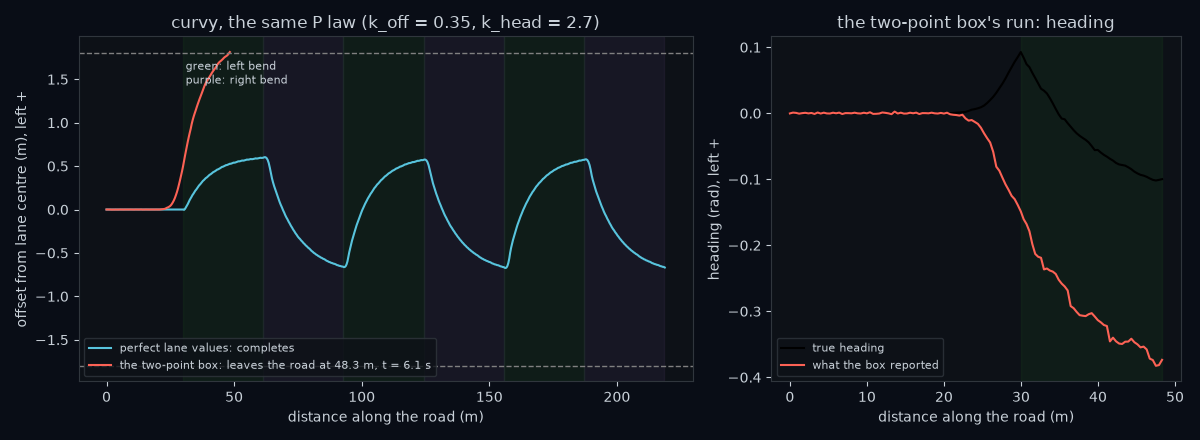
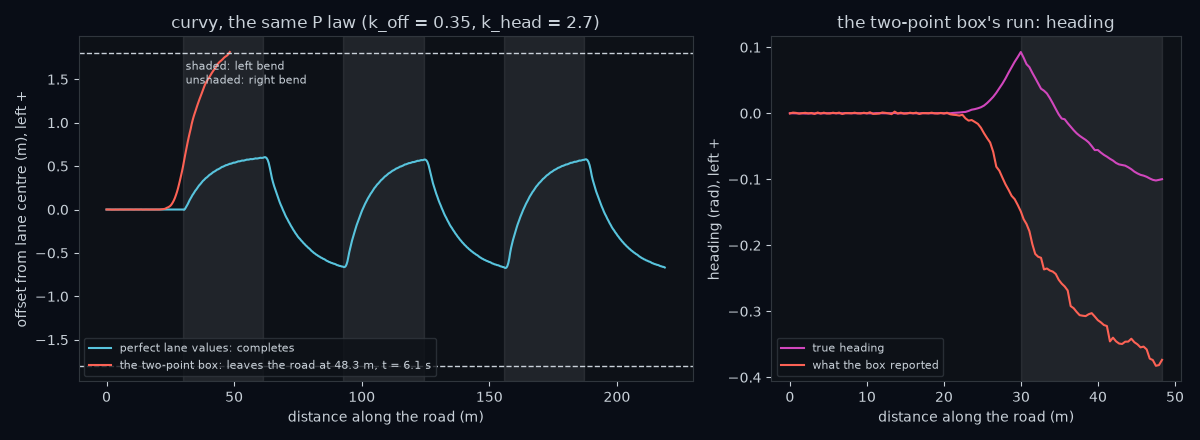
feat(figures): palette colours in 0.1.3 and 0.1.4; G2 gate on every figures.py
Every course/*/figures.py and scripts/figstyle.py now passes
test_no_figure_module_holds_a_string_colour_literal. 0.1.3 draws paint in the
camera's colours and lanes/rays in the quantity hues; 0.1.4 tells gains apart by
shades of one hue and bends by shading instead of green/purple. Figures and
course/dist/figures regenerated.

diff --git a/course/0.1.3-your-first-perception-box/figures.py b/course/0.1.3-your-first-perception-box/figures.py
@@ -4,8 +4,9 @@ from matplotlib.figure import Figure
 
 from zero2fsd.car import Observation
 from zero2fsd.car.provided import FAR_ROWS, NEAR_ROWS, estimate_lane, lane_point, paint_masks
+from zero2fsd.palette import CHROME, QUANTITY, SCENE
 from zero2fsd.sim import BicycleState, Camera, make_scenario
-from zero2fsd.sim.camera import PALETTE, ROAD, WHITE, YELLOW, to_vehicle
+from zero2fsd.sim.camera import WHITE, YELLOW, to_vehicle
 from zero2fsd.sim.scenarios import TARGET_SPEED
 from zero2fsd.sim.world import EGO_LANE_CENTER, WHITE_LINE_LATERAL
 
@@ -15,7 +16,7 @@ RAY_ROWS = (95, 116, 125, 150, 179)  # the band edges, plus the lecture's worked
 WORKED = ("straight", 20.0, 0.4, 0.05)  # scenario, s, offset, heading: the lab renders this same frame
 BENDS = (("gentle", 150.0), ("curvy", 40.0))  # centred and aligned, well inside a bend
 BANDS = ((NEAR_ROWS, "near band"), (FAR_ROWS, "far band"))
-GREY = PALETTE[ROAD] / 255
+PAINT = {YELLOW: SCENE["yellow"], WHITE: SCENE["white"]}  # paint drawn in the colours the camera sees
 
 
 def _view(scenario, s, offset=0.0, heading=0.0):
@@ -31,8 +32,8 @@ def _road_line(ax, road, state, s, lateral, ahead, **style):
 
 
 def _top_down(ax, title):
-    ax.set_facecolor(GREY)
-    ax.plot(0, 0, marker="^", ms=12, color="tab:red", zorder=5)
+    ax.set_facecolor(SCENE["road"])
+    ax.plot(0, 0, marker="^", ms=12, color=QUANTITY["perception"], zorder=5)
     ax.invert_xaxis()  # left is positive, so it goes on the left, as in the camera frame
     ax.set_xlabel("left of the car (m)")
     ax.set_ylabel("ahead of the car (m)")
@@ -43,16 +44,16 @@ def rows_to_distance(path):
     fig = Figure(figsize=(12, 4))
     side, curve = fig.subplots(1, 2, gridspec_kw={"width_ratios": [1.3, 1]})
     h = CAMERA.mount_height
-    side.axhline(0, color="black", lw=1)
-    side.plot([0, 13], [h, h], ls="--", color="tab:blue")
-    side.text(12.9, h + 0.05, f"row {HORIZON:.1f}: the horizon, parallel to the ground", ha="right", va="bottom", color="tab:blue")
+    side.axhline(0, color=CHROME["text"], lw=1)
+    side.plot([0, 13], [h, h], ls="--", color=QUANTITY["e_off"])
+    side.text(12.9, h + 0.05, f"row {HORIZON:.1f}: the horizon, parallel to the ground", ha="right", va="bottom", color=QUANTITY["e_off"])
     for k, v in enumerate(sorted(RAY_ROWS, reverse=True)):  # nearest first, labels on alternating levels
         d = CAMERA.pixel_to_ground(CAMERA.cx, v)[0]
         bold = v == 150
-        side.plot([0, d], [h, 0], color="tab:red" if bold else "grey", lw=2 if bold else 1)
+        side.plot([0, d], [h, 0], color=QUANTITY["perception"] if bold else CHROME["text"], lw=2 if bold else 1)
         side.text(d, -0.07 - 0.3 * (k % 2), f"row {v}\n{d:.2f} m", ha="center", va="top", fontsize=8,
-                  color="tab:red" if bold else "black")
-    side.plot(0, h, marker="s", ms=9, color="black")
+                  color=QUANTITY["perception"] if bold else CHROME["text"])
+    side.plot(0, h, marker="s", ms=9, color=CHROME["text"])
     side.annotate("", xy=(-0.3, 0), xytext=(-0.3, h), arrowprops={"arrowstyle": "<->"})
     side.text(-0.4, h / 2, f"h = {h} m", ha="right", va="center")
     side.set_xlim(-1.6, 13)
@@ -62,13 +63,13 @@ def rows_to_distance(path):
     side.set_title("side view: one ray per image row (vertical scale stretched)")
 
     rows = np.arange(76, 180)
-    curve.semilogy(rows, CAMERA.pixel_to_ground(CAMERA.cx, rows)[0], color="black")
-    curve.axvline(HORIZON, ls="--", color="tab:blue")
-    curve.text(HORIZON + 1, 300, "horizon", color="tab:blue")
+    curve.semilogy(rows, CAMERA.pixel_to_ground(CAMERA.cx, rows)[0], color=CHROME["text"])
+    curve.axvline(HORIZON, ls="--", color=QUANTITY["e_off"])
+    curve.text(HORIZON + 1, 300, "horizon", color=QUANTITY["e_off"])
     for (a, b), name in BANDS:
-        curve.axvspan(a, b, alpha=0.15, color="tab:orange")
+        curve.axvspan(a, b, alpha=0.25, color=QUANTITY["psi"])
         curve.text((a + b) / 2, 150, name, ha="center", fontsize=9)
-    curve.plot(150, CAMERA.pixel_to_ground(CAMERA.cx, 150)[0], "o", color="tab:red")
+    curve.plot(150, CAMERA.pixel_to_ground(CAMERA.cx, 150)[0], "o", color=QUANTITY["perception"])
     curve.set_xlabel("image row v (0 is the top)")
     curve.set_ylabel("distance ahead (m), log scale")
     curve.set_title("distance ahead for every row below the horizon")
@@ -83,15 +84,15 @@ def perspective_grid(path):
     ax.imshow(frame)
     ahead = np.linspace(2.0, 200.0, 400)
     for left in range(-6, 5):
-        ax.plot(*CAMERA.ground_to_pixel(ahead, np.full_like(ahead, left)), color="black", lw=0.6)
+        ax.plot(*CAMERA.ground_to_pixel(ahead, np.full_like(ahead, left)), color=CHROME["text"], lw=0.6)
     for forward in (3, 5, 10, 20, 40):
         v = CAMERA.ground_to_pixel(forward, 0.0)[1]
-        ax.axhline(v, color="tab:red", lw=1.5)
-        ax.text(4, v, f"{forward} m ahead", color="tab:red", fontsize=8, va="center",
-                bbox={"facecolor": "white", "edgecolor": "none", "pad": 1})
+        ax.axhline(v, color=QUANTITY["perception"], lw=1.5)
+        ax.text(4, v, f"{forward} m ahead", color=QUANTITY["perception"], fontsize=8, va="center",
+                bbox={"facecolor": CHROME["panel"], "linewidth": 0, "pad": 1})
     ax.set_xlim(0, CAMERA.width - 1)
     ax.set_ylim(CAMERA.height - 1, 0)
-    ax.set_title("black lines: 1 m apart on the ground; red lines: fixed distances ahead")
+    ax.set_title("grey lines: 1 m apart on the ground; red lines: fixed distances ahead")
     fig.tight_layout()
     fig.savefig(path, dpi=100)
 
@@ -105,8 +106,8 @@ def lane_estimate(path):
     image.imshow(frame)
     for (a, b), name in BANDS:
         for edge in (a - 0.5, b - 0.5):
-            image.axhline(edge, color="tab:orange", lw=1.5, ls="--")
-        image.text(3, a + 1, name, va="top", fontsize=9, bbox={"facecolor": "white", "edgecolor": "none", "pad": 1})
+            image.axhline(edge, color=QUANTITY["psi"], lw=1.5, ls="--")
+        image.text(3, a + 1, name, va="top", fontsize=9, bbox={"facecolor": CHROME["panel"], "linewidth": 0, "pad": 1})
     _top_down(top, "the same paint, back-projected onto the ground")
     points = []
     for rows, _ in BANDS:
@@ -114,19 +115,19 @@ def lane_estimate(path):
             v, u = np.nonzero(mask[slice(*rows)])
             v = v + rows[0]
             forward, left = CAMERA.pixel_to_ground(u, v)
-            top.scatter(left, forward, s=2, color=PALETTE[paint] / 255)
-            image.plot(u.mean(), v.mean(), "x", ms=10, mew=2, color="tab:red")
-            top.plot(*CAMERA.pixel_to_ground(u.mean(), v.mean())[::-1], "x", ms=10, mew=2, color="tab:red")
+            top.scatter(left, forward, s=2, color=PAINT[paint])
+            image.plot(u.mean(), v.mean(), "x", ms=10, mew=2, color=QUANTITY["perception"])
+            top.plot(*CAMERA.pixel_to_ground(u.mean(), v.mean())[::-1], "x", ms=10, mew=2, color=QUANTITY["perception"])
         points.append(lane_point(masks, rows))
     (f1, c1), (f2, c2) = points
     slope = (c2 - c1) / (f2 - f1)
     ahead = np.array([0.0, 9.0])
-    top.plot(c1 + slope * (ahead - f1), ahead, color="black", lw=1.5, label="line through the two lane centres")
-    top.plot([c1, c2], [f1, f2], "o", ms=8, mfc="white", mec="black", label="lane centre in each band")
-    _road_line(top, road, state, s, EGO_LANE_CENTER, 10, ls=":", color="tab:cyan", lw=2, label="true lane centre")
+    top.plot(c1 + slope * (ahead - f1), ahead, color=CHROME["text"], lw=1.5, label="line through the two lane centres")
+    top.plot([c1, c2], [f1, f2], "o", ms=8, mfc=CHROME["text"], mec=CHROME["background"], label="lane centre in each band")
+    _road_line(top, road, state, s, EGO_LANE_CENTER, 10, ls=":", color=QUANTITY["e_off"], lw=2, label="true lane centre")
     intercept = c1 - slope * f1
-    top.annotate("", xy=(intercept, -0.6), xytext=(0, -0.6), arrowprops={"arrowstyle": "<->", "color": "white"})
-    top.text(intercept - 0.1, -0.6, f"offset = {-intercept:.2f} m", ha="left", va="center", color="white", fontsize=9)
+    top.annotate("", xy=(intercept, -0.6), xytext=(0, -0.6), arrowprops={"arrowstyle": "<->", "color": CHROME["text"]})
+    top.text(intercept - 0.1, -0.6, f"offset = {-intercept:.2f} m", ha="left", va="center", color=CHROME["text"], fontsize=9)
     top.set_xlim(2.5, -3.5)
     top.set_ylim(-1.1, 9)
     top.legend(loc="upper center", bbox_to_anchor=(0.5, -0.14), ncol=2, fontsize=8)
@@ -145,12 +146,12 @@ def chord_bias(path):
         radius = 1 / abs(np.diff(road.pose_at(np.array([s, s + 1.0]))[2])[0])
         _top_down(ax, f"{scenario}, radius {radius:.0f} m: estimate {est.offset_m:+.2f} m, {est.heading_rad:+.3f} rad")
         for lateral, paint in ((0.0, YELLOW), (WHITE_LINE_LATERAL, WHITE)):
-            _road_line(ax, road, state, s, lateral, 14, color=PALETTE[paint] / 255, lw=3)
-        _road_line(ax, road, state, s, EGO_LANE_CENTER, 14, ls=":", color="tab:cyan", lw=2, label="true lane centre (a curve)")
-        ax.plot([0, 0], [0, 14], ls="--", color="tab:red", lw=1, label="where the car points: along the lane")
+            _road_line(ax, road, state, s, lateral, 14, color=PAINT[paint], lw=3)
+        _road_line(ax, road, state, s, EGO_LANE_CENTER, 14, ls=":", color=QUANTITY["e_off"], lw=2, label="true lane centre (a curve)")
+        ax.plot([0, 0], [0, 14], ls="--", color=QUANTITY["perception"], lw=1, label="where the car points: along the lane")
         ahead = np.array([0.0, 14.0])
-        ax.plot(c1 + (c2 - c1) / (f2 - f1) * (ahead - f1), ahead, color="black", lw=1.5, label="straight line through the two centres")
-        ax.plot([c1, c2], [f1, f2], "o", ms=8, mfc="white", mec="black")
+        ax.plot(c1 + (c2 - c1) / (f2 - f1) * (ahead - f1), ahead, color=CHROME["text"], lw=1.5, label="straight line through the two centres")
+        ax.plot([c1, c2], [f1, f2], "o", ms=8, mfc=CHROME["text"], mec=CHROME["background"])
         ax.set_xlim(5, -5)
         ax.set_ylim(-0.3, 14)
         ax.legend(loc="lower left", fontsize=8)

diff --git a/course/0.1.4-closing-the-loop/figures.py b/course/0.1.4-closing-the-loop/figures.py
@@ -7,6 +7,7 @@ from matplotlib.figure import Figure
 from zero2fsd.car import Car, LaneEstimate, provided, run
 from zero2fsd.car.runner import OFF_ROAD_OFFSET
 from zero2fsd.car.types import Action
+from zero2fsd.palette import CHROME, QUANTITY, shades
 from zero2fsd.score import metrics
 from zero2fsd.sim import BicycleState, make_scenario
 from zero2fsd.sim.dynamics import DT, WHEELBASE, step
@@ -32,10 +33,10 @@ def _lane_radius(radius, turn):
 
 
 def _shade_curvy_bends(ax):
-    for k in range(6):
+    for k in range(0, 6, 2):  # the left bends; the right bends stay unshaded
         a = CURVY_FIRST_ARC + k * CURVY_ARC
-        ax.axvspan(a, a + CURVY_ARC, color="tab:green" if k % 2 == 0 else "tab:purple", alpha=0.08)
-    ax.text(CURVY_FIRST_ARC + 1, 1.45, "green: left bend\npurple: right bend", fontsize=8)
+        ax.axvspan(a, a + CURVY_ARC, color=CHROME["text"], alpha=0.1)
+    ax.text(CURVY_FIRST_ARC + 1, 1.45, "shaded: left bend\nunshaded: right bend", fontsize=8)
 
 
 def _gains(k_off, k_head):
@@ -79,7 +80,7 @@ def _ends(tel):
 
 def _road_edges(ax):
     for edge in (-OFF_ROAD_OFFSET, OFF_ROAD_OFFSET):
-        ax.axhline(edge, color="0.5", ls="--", lw=1)
+        ax.axhline(edge, color=CHROME["text"], ls="--", lw=1)
 
 
 def open_vs_closed(path):
@@ -98,8 +99,8 @@ def open_vs_closed(path):
     )
     fig = Figure(figsize=(10, 4.2))
     ax = fig.subplots()
-    for (tel, label), style in zip(runs, ("-", ":", "-")):
-        ax.plot(tel.t, tel.lat, ls=style, lw=2, label=f"{label}: {_ends(tel)}")
+    for (tel, label), style, colour in zip(runs, ("-", ":", "-"), shades(QUANTITY["e_off"], len(runs))):
+        ax.plot(tel.t, tel.lat, ls=style, lw=2, color=colour, label=f"{label}: {_ends(tel)}")
     _road_edges(ax)
     ax.set_xlim(0, 20)
     ax.set(xlabel="time (s)", ylabel="offset from lane centre (m), left +",
@@ -114,18 +115,18 @@ def gain_sweep(path):
     fig = Figure(figsize=(12, 4.4))
     lat, steer = fig.subplots(1, 2, gridspec_kw={"width_ratios": [1.5, 1]})
     for i, (k, tel) in enumerate(runs.items()):
-        lat.plot(tel.t, tel.lat, color=f"C{i}", label=f"k_off = {k}: {_ends(tel)}, mean |lat| {metrics(tel)['mean_abs_lat']:.3f} m")
+        lat.plot(tel.t, tel.lat, color=shades(QUANTITY["e_off"], len(SWEEP))[i], label=f"k_off = {k}: {_ends(tel)}, mean |lat| {metrics(tel)['mean_abs_lat']:.3f} m")
     _road_edges(lat)
     bend = runs[K_OFF].t[np.argmax(runs[K_OFF].progress_m >= GENTLE_FIRST_BEND)]
-    lat.axvline(bend, color="0.7", lw=1)
-    lat.text(bend + 0.2, 1.6, "first bend", color="0.4", fontsize=9)
+    lat.axvline(bend, color=CHROME["text"], lw=1)
+    lat.text(bend + 0.2, 1.6, "first bend", fontsize=9)
     lat.set_xlim(0, 20)
     lat.set(xlabel="time (s)", ylabel="offset from lane centre (m), left +", title=f"gentle, k_head = {K_HEAD}")
     lat.legend(loc="lower right", fontsize=8)
     for i, k in ((2, 1.5), (3, 6.0)):
         tel = runs[k]
         limited = np.mean(np.abs(np.diff(tel.steer)) / DT > 0.999)
-        steer.plot(tel.t, tel.steer, color=f"C{i}", label=f"k_off = {k}: wheel turning at full speed in {limited:.0%} of steps")
+        steer.plot(tel.t, tel.steer, color=shades(QUANTITY["delta"], len(SWEEP))[i], label=f"k_off = {k}: wheel turning at full speed in {limited:.0%} of steps")
     steer.set_xlim(0, 4.5)
     steer.set(xlabel="time (s)", ylabel="wheel angle (rad), left +", title="the wheel: at most 1 rad/s")
     steer.legend(loc="lower left", fontsize=8)
@@ -137,18 +138,18 @@ def steady_state(path):
     gentle, curvy = perfect_run("gentle"), perfect_run("curvy")
     fig = Figure(figsize=(12, 4.2))
     left, right = fig.subplots(1, 2)
-    left.plot(gentle.progress_m, gentle.lat, color="C0", label=f"perfect lane values: settles at {np.abs(gentle.lat).max():.3f} m")
+    left.plot(gentle.progress_m, gentle.lat, color=QUANTITY["e_off"], label=f"perfect lane values: settles at {np.abs(gentle.lat).max():.3f} m")
     predicted = steady_offset(_lane_radius(GENTLE_RADIUS, +1), +1)
-    left.axhline(predicted, color="black", ls=":", label=f"predicted: {predicted:.3f} m")
+    left.axhline(predicted, color=CHROME["text"], ls=":", label=f"predicted: {predicted:.3f} m")
     left.set_ylim(-0.1, 0.3)
     left.set(xlabel="distance along the road (m)", ylabel="offset from lane centre (m), left +",
              title=f"gentle: two left bends of radius {_lane_radius(GENTLE_RADIUS, +1):.1f} m")
     left.legend(loc="upper left", fontsize=8)
     _shade_curvy_bends(right)
-    right.plot(curvy.progress_m, curvy.lat, color="C0", label=f"perfect lane values: max |lat| {metrics(curvy)['max_abs_lat']:.2f} m")
-    for turn, colour in ((+1, "tab:green"), (-1, "tab:purple")):
+    right.plot(curvy.progress_m, curvy.lat, color=QUANTITY["e_off"], label=f"perfect lane values: max |lat| {metrics(curvy)['max_abs_lat']:.2f} m")
+    for turn, ls in ((+1, ":"), (-1, "--")):
         radius = _lane_radius(CURVY_RADIUS, turn)
-        right.axhline(steady_offset(radius, turn), color=colour, ls=":",
+        right.axhline(steady_offset(radius, turn), color=CHROME["text"], ls=ls,
                       label=f"predicted for radius {radius:.1f} m: {steady_offset(radius, turn):+.3f} m")
     right.set_ylim(-1.9, 1.9)
     right.set(xlabel="distance along the road (m)", ylabel="offset from lane centre (m), left +", title="curvy: the bend changes direction every 31 m")
@@ -163,15 +164,15 @@ def curvy_box(path):
     fig = Figure(figsize=(12, 4.4))
     lat, head = fig.subplots(1, 2, gridspec_kw={"width_ratios": [1.5, 1]})
     _shade_curvy_bends(lat)
-    lat.plot(perfect.progress_m, perfect.lat, color="C0", label=f"perfect lane values: {_ends(perfect)}")
-    lat.plot(box.progress_m, box.lat, color="C3", label=f"the two-point box: {_ends(box)}")
+    lat.plot(perfect.progress_m, perfect.lat, color=QUANTITY["e_off"], label=f"perfect lane values: {_ends(perfect)}")
+    lat.plot(box.progress_m, box.lat, color=QUANTITY["perception"], label=f"the two-point box: {_ends(box)}")
     _road_edges(lat)
     lat.set(xlabel="distance along the road (m)", ylabel="offset from lane centre (m), left +",
             title=f"curvy, the same P law (k_off = {K_OFF}, k_head = {K_HEAD})")
     lat.legend(loc="lower left", fontsize=8)
-    head.axvspan(CURVY_FIRST_ARC, box.progress_m[-1], color="tab:green", alpha=0.08)
-    head.plot(box.progress_m, box.head_err, color="black", label="true heading")
-    head.plot(box.progress_m, box.est_heading, color="C3", label="what the box reported")
+    head.axvspan(CURVY_FIRST_ARC, box.progress_m[-1], color=CHROME["text"], alpha=0.1)
+    head.plot(box.progress_m, box.head_err, color=QUANTITY["psi"], label="true heading")
+    head.plot(box.progress_m, box.est_heading, color=QUANTITY["perception"], label="what the box reported")
     head.set(xlabel="distance along the road (m)", ylabel="heading (rad), left +", title="the two-point box's run: heading")
     head.legend(loc="lower left", fontsize=8)
     fig.tight_layout()

diff --git a/tests/zero2fsd/test_figure_colours.py b/tests/zero2fsd/test_figure_colours.py
@@ -181,3 +181,12 @@ def test_every_quantity_hue_and_every_shade_reads_on_the_figure_surfaces(surface
 
 def test_text_reads_on_the_panel_at_the_body_text_ratio():
     assert unreadable({"text": CHROME["text"]}, CHROME["panel"], ratio=4.5) == {}
+
+
+# --- G2 on the real tree ---
+
+
+@pytest.mark.parametrize("source", SCANNED, ids=[f"{p.parent.name}/{p.name}" for p in SCANNED])
+def test_no_figure_module_holds_a_string_colour_literal(source):
+    """Colours come from zero2fsd.palette (QUANTITY, SCENE, CHROME, shades); the style comes from scripts/figstyle.py."""
+    assert colour_literals(source.read_text(encoding="utf-8")) == [], f"{source.relative_to(REPO)} holds colour literals (line, text)"
